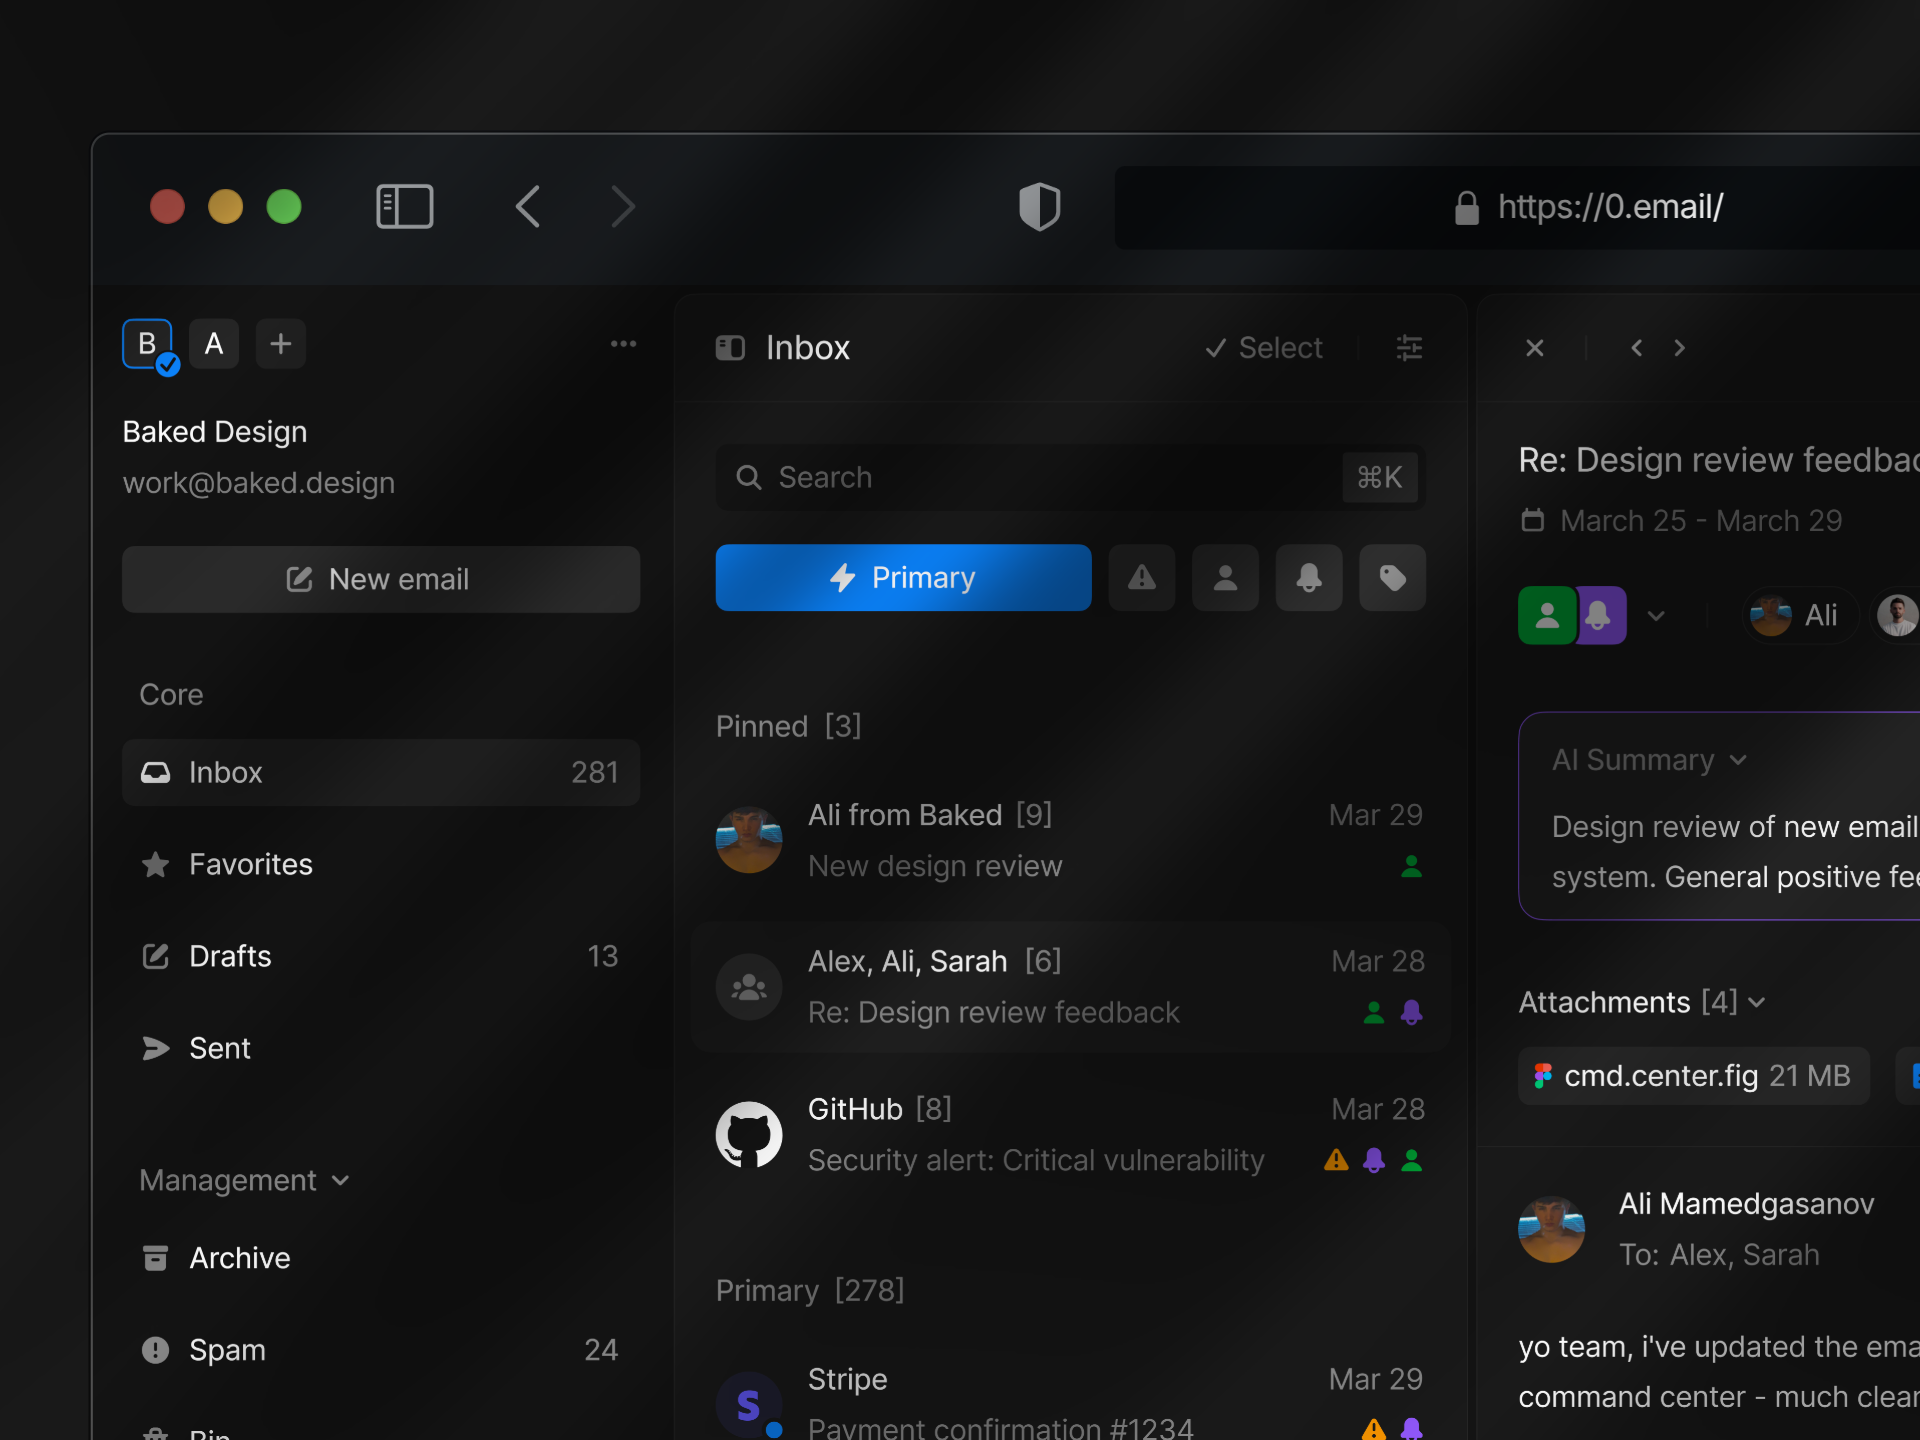
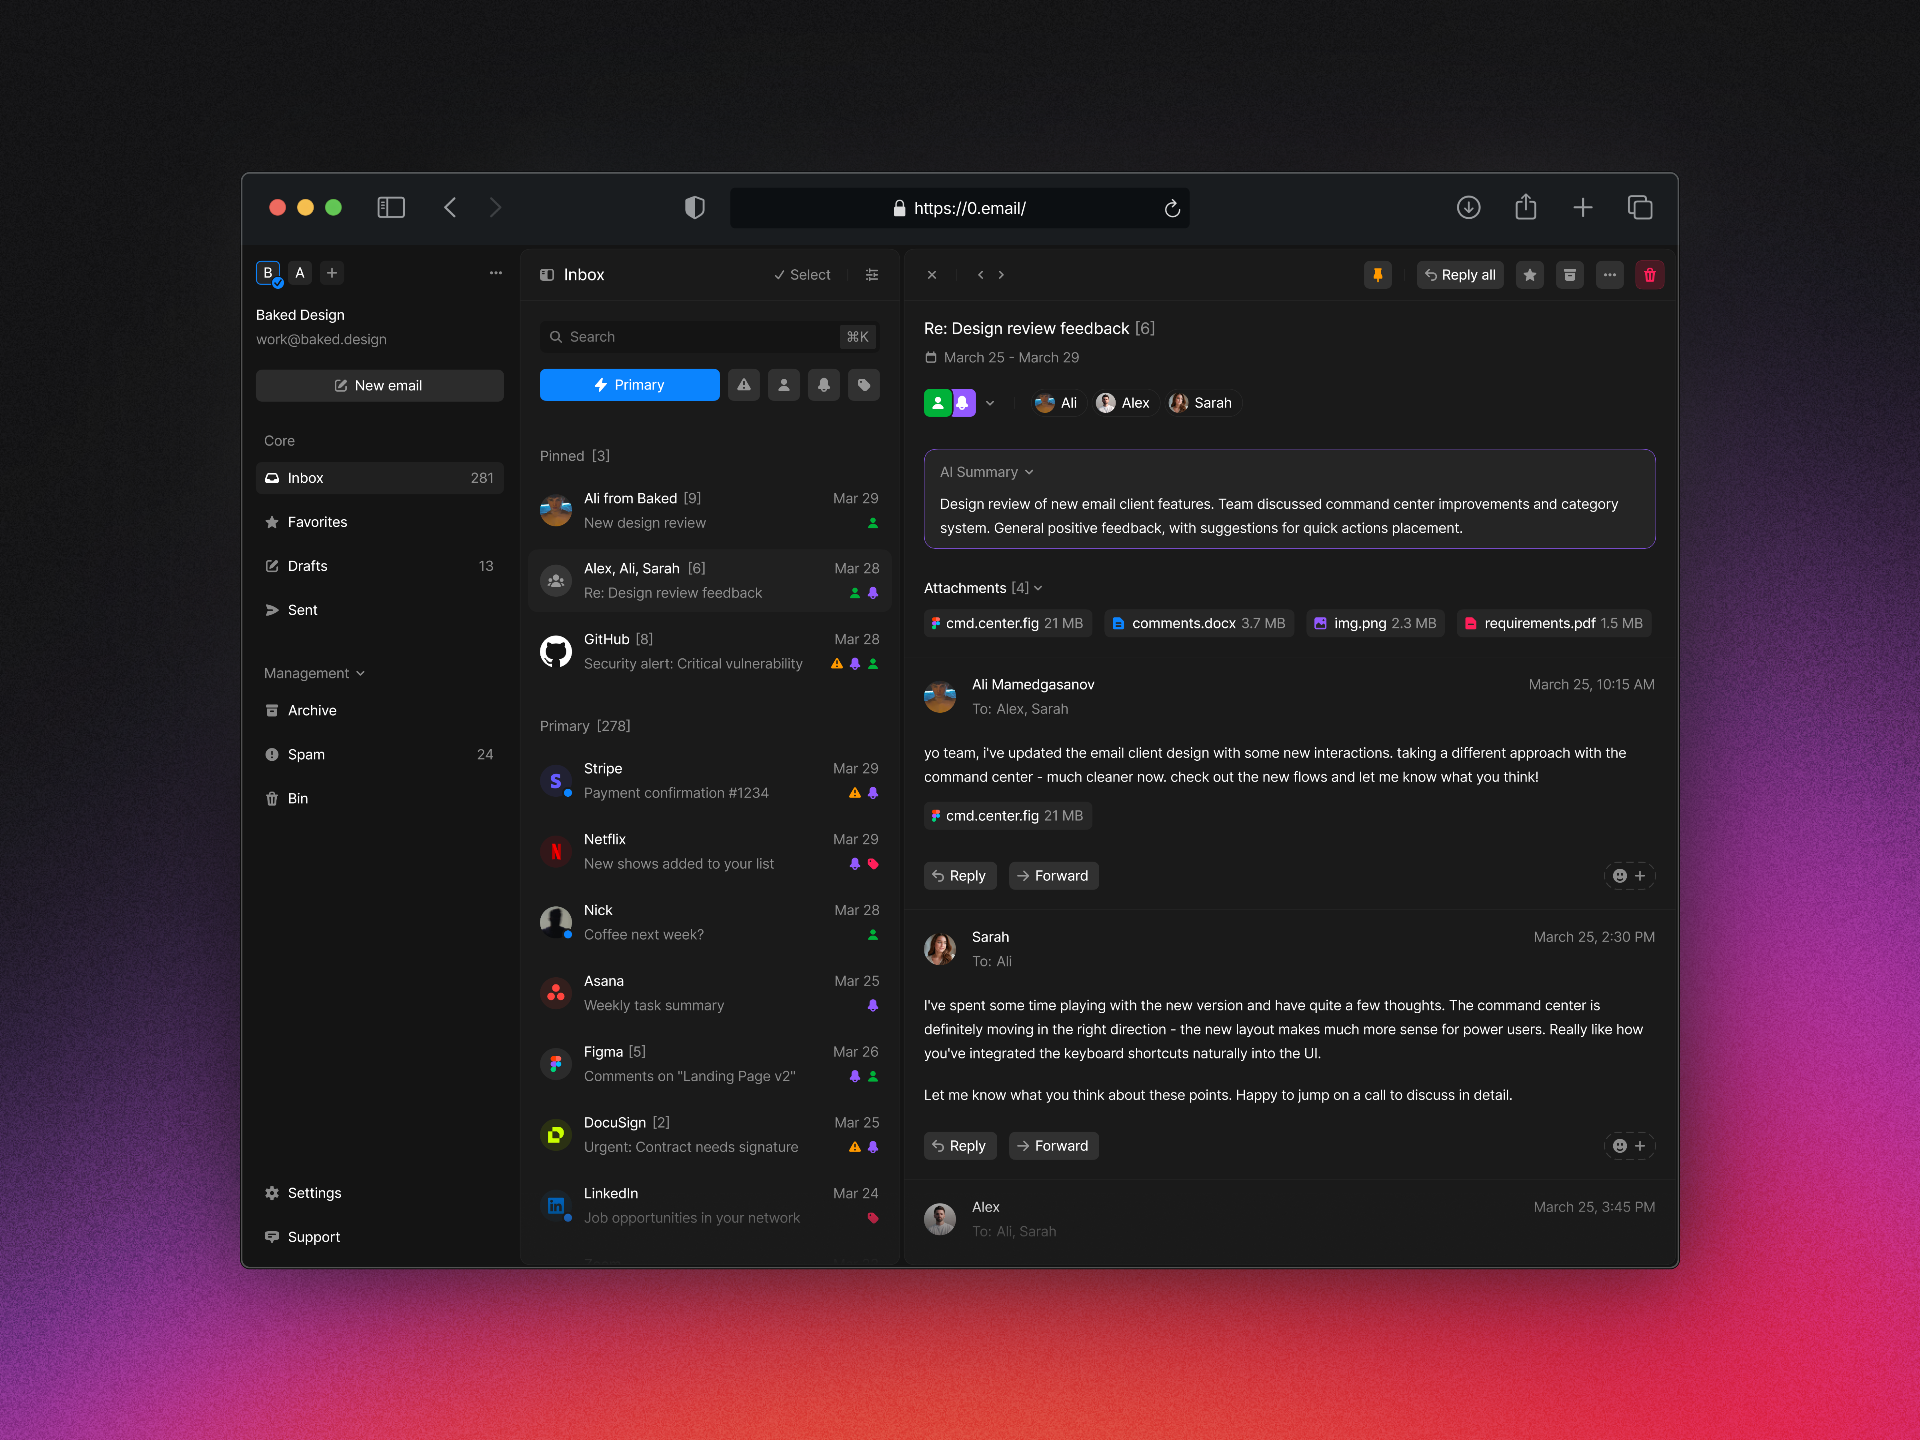
fixed the hero section

diff --git a/apps/mail/components/home/HomeContent.tsx b/apps/mail/components/home/HomeContent.tsx
@@ -306,22 +306,26 @@ export default function HomeContent() {
         </Sheet>
       </div>
 
-      <section className="z-10 mt-32 flex flex-col items-center px-4">
+      <section className="z-10 mt-32 flex flex-col items-center px-4 md:mt-44">
         <motion.div
           initial={{ opacity: 0, y: 20 }}
           animate={{ opacity: 1, y: 0 }}
           transition={{ duration: 0.5 }}
           className="border-input/50 mb-6 inline-flex items-center gap-4 rounded-full border border-[#2A2A2A] bg-[#1E1E1E] px-4 py-1"
         >
-          <span className="flex items-center gap-2 text-sm">
-            Backed by Y Combinator
-            <img
-              src="/yc-small.svg"
-              alt="Y Combinator"
-              className="rounded-[2px]"
-              width={18}
-              height={18}
-            />
+          <span className="font-sora flex items-center gap-2 text-sm">
+            Backed by{' '}
+            <span>
+              {' '}
+              <img
+                src="/yc-small.svg"
+                alt="Y Combinator"
+                className="rounded-[2px]"
+                width={18}
+                height={18}
+              />
+            </span>{' '}
+            Combinator
           </span>
           {/* <Link
             href="https://x.com/zerodotemail"
@@ -336,7 +340,7 @@ export default function HomeContent() {
           initial={{ opacity: 0, y: 20 }}
           animate={{ opacity: 1, y: 0 }}
           transition={{ duration: 0.5, delay: 0.2 }}
-          className="text-center text-4xl font-medium md:text-6xl"
+          className="font-sora text-center text-4xl font-medium md:text-6xl"
         >
           <Balancer className="mb-3 max-w-[1130px]">
             AI Powered Email, Built to Save You Time
@@ -346,51 +350,72 @@ export default function HomeContent() {
           initial={{ opacity: 0, y: 20 }}
           animate={{ opacity: 1, y: 0 }}
           transition={{ duration: 0.5, delay: 0.4 }}
-          className="mx-auto mb-4 max-w-2xl text-center text-base font-medium text-[#B7B7B7] md:text-lg"
+          className="font-mona mx-auto mb-4 max-w-2xl text-center text-base font-medium text-[#B7B7B7] md:text-lg"
         >
           Zero is an AI-native email client that manages your inbox, so you don't have to.
         </motion.p>
 
-        <motion.div
-          initial={{ opacity: 0, y: 20 }}
-          animate={{ opacity: 1, y: 0 }}
-          transition={{ duration: 0.5, delay: 0.6 }}
-        >
-          <Button
-            onClick={() => {
-              toast.promise(
-                signIn.social({
-                  provider: 'google',
-                  callbackURL: `${window.location.origin}/mail`,
-                }),
-                {
-                  error: 'Login redirect failed',
-                },
-              );
-            }}
-            className="h-8"
+        <div className="mt-12 flex flex-row gap-6">
+          <motion.div
+            initial={{ opacity: 0, y: 20 }}
+            animate={{ opacity: 1, y: 0 }}
+            transition={{ duration: 0.5, delay: 0.6 }}
           >
-            Get Started
-          </Button>
-        </motion.div>
-        <p className="ml-0.5 mt-2 text-xs text-[#B7B7B7]/60">No credit card required. </p>
+            <Button
+              className="font-mona w-full bg-transparent text-xs text-[#B7B7B7]/60 sm:w-fit"
+              variant={'outline'}
+            >
+              No credit card required.
+            </Button>
+          </motion.div>
+
+          <motion.div
+            initial={{ opacity: 0, y: 20 }}
+            animate={{ opacity: 1, y: 0 }}
+            transition={{ duration: 0.5, delay: 0.6 }}
+          >
+            <Button
+              onClick={() => {
+                toast.promise(
+                  signIn.social({
+                    provider: 'google',
+                    callbackURL: `${window.location.origin}/mail`,
+                  }),
+                  {
+                    error: 'Login redirect failed',
+                  },
+                );
+              }}
+              className="font-mona w-full items-center sm:w-fit"
+            >
+              <p>Get Started</p>
+              <ArrowRight className="invert" />
+            </Button>
+          </motion.div>
+        </div>
+
         <a
           href="https://www.producthunt.com/posts/zero-8?embed=true&utm_source=badge-featured&utm_medium=badge&utm_source=badge-zero&#0045;8"
           target="_blank"
+          className="fixed bottom-12 right-4 md:right-12"
         >
           <img
             src="https://api.producthunt.com/widgets/embed-image/v1/featured.svg?post_id=970417&theme=light&t=1748371877825"
             alt="Zero - AI&#0032;Native&#0032;Email&#0032;Client | Product Hunt"
-            style={{ width: '250px', height: '54px' }}
-            width="250"
-            height="54"
-            className="mt-2"
+            className="mt-2 h-[44px] w-[200px] md:h-[54px] md:w-[250px]"
           />
         </a>
       </section>
 
-      <section className="relative mt-10 hidden flex-col justify-center md:flex">
+      <motion.section
+        className="relative mt-10 hidden flex-col justify-center md:mt-32 md:flex"
+        initial={{ opacity: 0, y: 20 }}
+        whileInView={{ opacity: 1, y: 0 }}
+        transition={{ duration: 0.5, delay: 0.6 }}
+        viewport={{ once: true }}
+      >
         <div className="bg-border absolute left-1/2 top-0 h-px w-full -translate-x-1/2 md:container xl:max-w-7xl" />
+
         <Tabs
           defaultValue="smart-categorization"
           onValueChange={handleTabChange}
@@ -431,8 +456,9 @@ export default function HomeContent() {
                 className="absolute right-0 top-0 -z-10 hidden h-full w-auto translate-x-full opacity-50 md:block"
                 style={{ mixBlendMode: 'screen' }}
               />
-              {/* <div className="bg-border absolute -left-px -top-4 hidden h-4 w-px md:block" />
-              <div className="bg-border absolute -right-px -top-4 hidden h-4 w-px md:block" /> */}
+              <div className="bg-border absolute -left-px -top-4 hidden h-4 w-px md:block" />
+              <div className="bg-border absolute -right-px -top-4 hidden h-4 w-px md:block" />
+
               {tabs.map((tab) => (
                 <TabsContent key={tab.value} value={tab.value}>
                   <img
@@ -448,7 +474,7 @@ export default function HomeContent() {
             </div>
           </div>
         </Tabs>
-      </section>
+      </motion.section>
 
       <div className="flex items-center justify-center px-4 md:hidden">
         <img

diff --git a/apps/mail/app/root.tsx b/apps/mail/app/root.tsx
@@ -66,6 +66,12 @@ export function Layout({ children }: PropsWithChildren) {
           <script crossOrigin="anonymous" src="//unpkg.com/react-scan/dist/auto.global.js" />
         )}
         <Links />
+
+        <style>
+          @import url('https://fonts.googleapis.com/css2?family=Sora:wght@600&display=swap');
+          @import
+          url('https://fonts.googleapis.com/css2?family=Mona+Sans:ital,wght@0,500;1,500&display=swap');
+        </style>
       </head>
       <body className="antialiased">
         <ServerProviders messages={messages} locale={locale} connectionId={connectionId}>

diff --git a/apps/mail/tailwind.config.ts b/apps/mail/tailwind.config.ts
@@ -90,6 +90,8 @@ export default {
       fontFamily: {
         sans: ['Geist', ...defaultTheme.fontFamily.sans],
         mono: ['Geist_Mono', ...defaultTheme.fontFamily.mono],
+        sora: ['Sora', 'sans-serif'],
+        mona: ['Mona Sans', ' sans-serif'],
       },
       keyframes: {
         'fade-up': {
